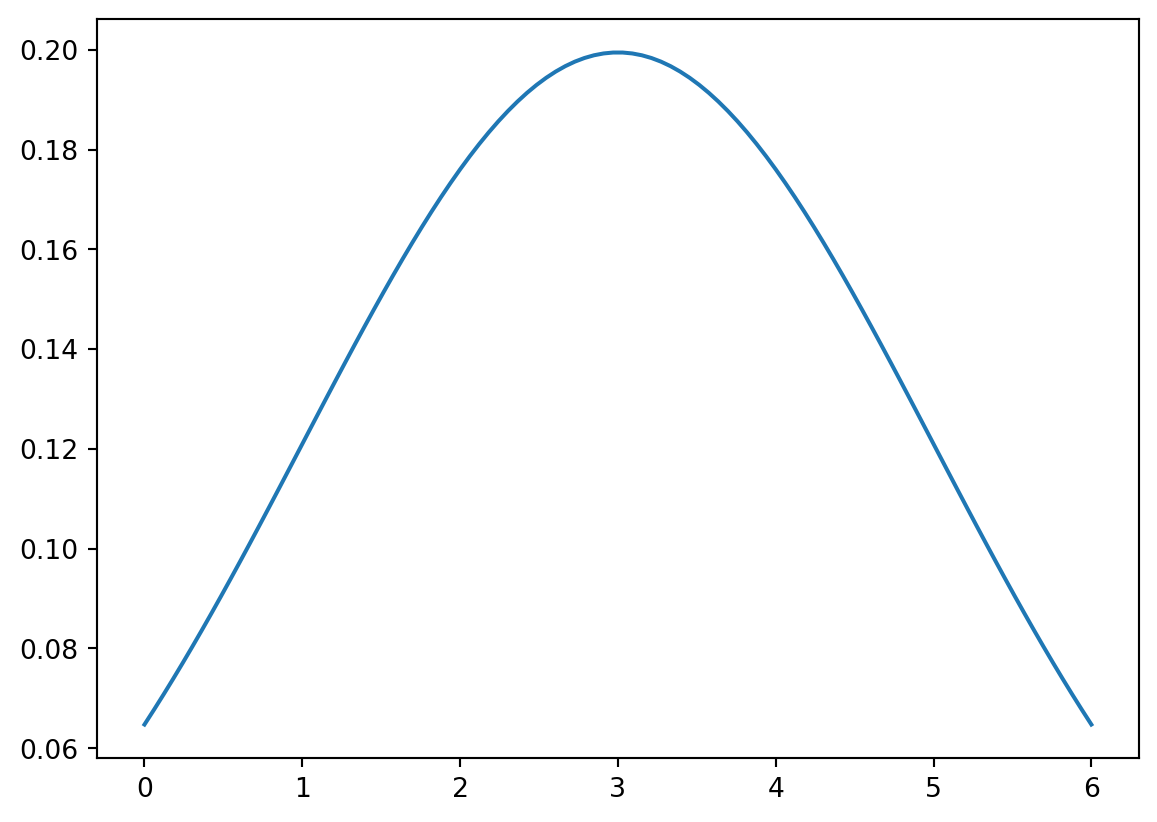
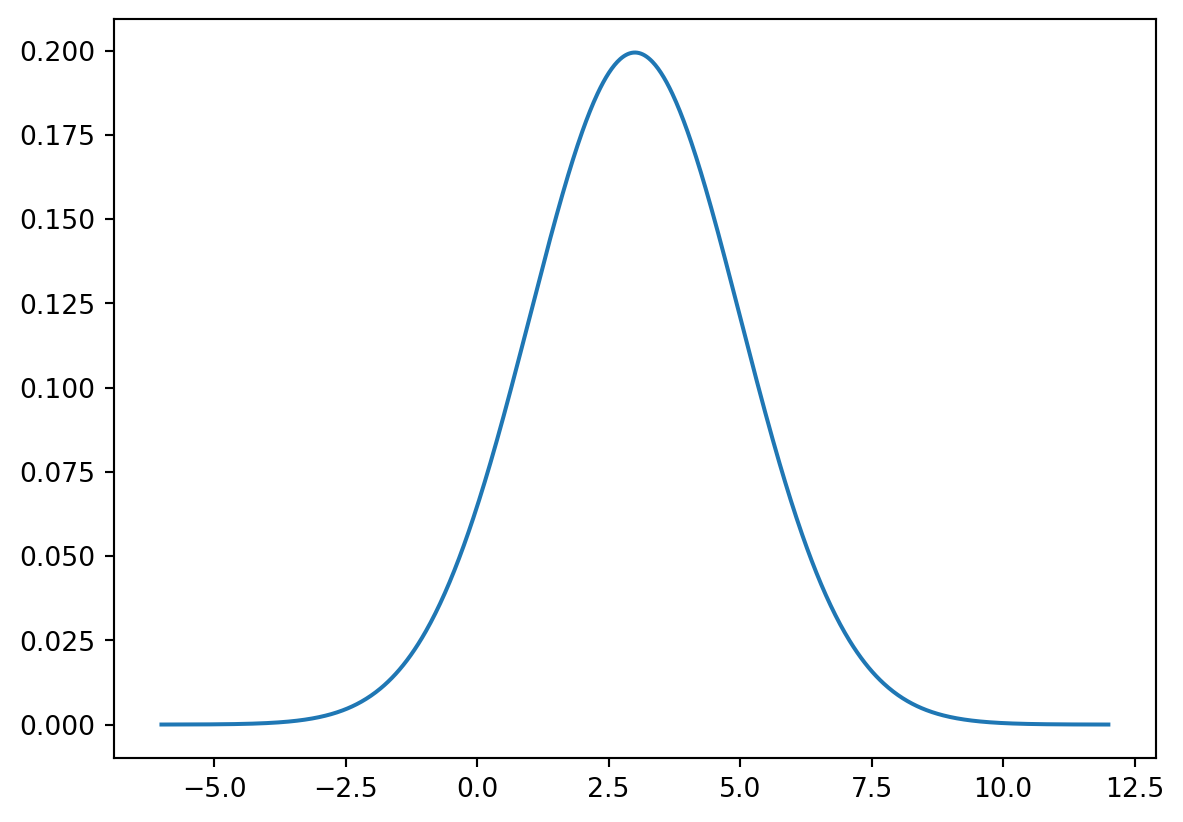
project!

diff --git a/docs/posts/hw3/index.html b/docs/posts/hw3/index.html
@@ -245,7 +245,7 @@ window.Quarto = {
 <p><span class="math display">\[
 f(x ; \mu, \sigma) = \frac{1}{\sigma \sqrt{2\pi}} e^{-\frac{1}{2} \left(\frac{x - \mu}{\sigma}\right)^2}
 \]</span></p>
-<div id="6ef21e72" class="cell" data-execution_count="1">
+<div id="22110413" class="cell" data-execution_count="1">
 <div class="sourceCode cell-code" id="cb1"><pre class="sourceCode python code-with-copy"><code class="sourceCode python"><span id="cb1-1"><a href="#cb1-1" aria-hidden="true" tabindex="-1"></a><span class="im">import</span> numpy <span class="im">as</span> np</span>
 <span id="cb1-2"><a href="#cb1-2" aria-hidden="true" tabindex="-1"></a><span class="im">import</span> matplotlib.pyplot <span class="im">as</span> plt</span>
 <span id="cb1-3"><a href="#cb1-3" aria-hidden="true" tabindex="-1"></a><span class="im">import</span> math</span>
@@ -253,7 +253,7 @@ f(x ; \mu, \sigma) = \frac{1}{\sigma \sqrt{2\pi}} e^{-\frac{1}{2} \left(\frac{x 
 <span id="cb1-5"><a href="#cb1-5" aria-hidden="true" tabindex="-1"></a><span class="kw">def</span> pdf_1(x, mu, std):</span>
 <span id="cb1-6"><a href="#cb1-6" aria-hidden="true" tabindex="-1"></a>    <span class="cf">return</span> (<span class="dv">1</span> <span class="op">/</span> (std <span class="op">*</span> math.sqrt(<span class="dv">2</span> <span class="op">*</span> math.pi))) <span class="op">*</span> math.exp(<span class="op">-</span><span class="fl">0.5</span> <span class="op">*</span> ((x <span class="op">-</span> mu) <span class="op">/</span> std) <span class="op">**</span> <span class="dv">2</span>)</span>
 <span id="cb1-7"><a href="#cb1-7" aria-hidden="true" tabindex="-1"></a></span>
-<span id="cb1-8"><a href="#cb1-8" aria-hidden="true" tabindex="-1"></a>x_values <span class="op">=</span> np.linspace(<span class="dv">0</span>, <span class="dv">6</span>, <span class="dv">100</span>)</span>
+<span id="cb1-8"><a href="#cb1-8" aria-hidden="true" tabindex="-1"></a>x_values <span class="op">=</span> np.linspace(<span class="op">-</span><span class="dv">6</span>, <span class="dv">12</span>, <span class="dv">1000</span>)</span>
 <span id="cb1-9"><a href="#cb1-9" aria-hidden="true" tabindex="-1"></a>pdf_values <span class="op">=</span> [pdf_1(x, <span class="dv">3</span>, <span class="dv">2</span>) <span class="cf">for</span> x <span class="kw">in</span> x_values]</span>
 <span id="cb1-10"><a href="#cb1-10" aria-hidden="true" tabindex="-1"></a></span>
 <span id="cb1-11"><a href="#cb1-11" aria-hidden="true" tabindex="-1"></a>plt.plot(x_values, pdf_values)</span>
@@ -262,7 +262,7 @@ f(x ; \mu, \sigma) = \frac{1}{\sigma \sqrt{2\pi}} e^{-\frac{1}{2} \left(\frac{x 
 <div class="cell-output cell-output-display">
 <div>
 <figure class="figure">
-<p><img src="index_files/figure-html/cell-2-output-1.png" width="579" height="411" class="figure-img"></p>
+<p><img src="index_files/figure-html/cell-2-output-1.png" width="592" height="411" class="figure-img"></p>
 </figure>
 </div>
 </div>
@@ -288,7 +288,7 @@ f(x ; \mu, \sigma) = \frac{1}{\sigma \sqrt{2\pi}} e^{-\frac{1}{2} \left(\frac{x 
 </section>
 <section id="px-3-or-x-7" class="level1">
 <h1>3) P(X &lt; 3 or X &gt; 7)</h1>
-<div id="22202fa8" class="cell" data-execution_count="2">
+<div id="b589bb68" class="cell" data-execution_count="2">
 <div class="sourceCode cell-code" id="cb3"><pre class="sourceCode python code-with-copy"><code class="sourceCode python"><span id="cb3-1"><a href="#cb3-1" aria-hidden="true" tabindex="-1"></a><span class="co"># 1) P(X &lt; 3)</span></span>
 <span id="cb3-2"><a href="#cb3-2" aria-hidden="true" tabindex="-1"></a><span class="im">from</span> scipy.stats <span class="im">import</span> norm</span>
 <span id="cb3-3"><a href="#cb3-3" aria-hidden="true" tabindex="-1"></a>norm.cdf(<span class="dv">3</span>, loc<span class="op">=</span><span class="dv">2</span>, scale<span class="op">=</span><span class="dv">3</span>)</span></code><button title="Copy to Clipboard" class="code-copy-button"><i class="bi"></i></button></pre></div>
@@ -296,14 +296,14 @@ f(x ; \mu, \sigma) = \frac{1}{\sigma \sqrt{2\pi}} e^{-\frac{1}{2} \left(\frac{x 
 <pre><code>np.float64(0.6305586598182363)</code></pre>
 </div>
 </div>
-<div id="c0276ffc" class="cell" data-execution_count="3">
+<div id="1cd2ae40" class="cell" data-execution_count="3">
 <div class="sourceCode cell-code" id="cb5"><pre class="sourceCode python code-with-copy"><code class="sourceCode python"><span id="cb5-1"><a href="#cb5-1" aria-hidden="true" tabindex="-1"></a><span class="co"># 2) P(2 &lt; X &lt; 5)</span></span>
 <span id="cb5-2"><a href="#cb5-2" aria-hidden="true" tabindex="-1"></a>norm.cdf(<span class="dv">5</span>, loc<span class="op">=</span><span class="dv">2</span>, scale<span class="op">=</span><span class="dv">3</span>) <span class="op">-</span> norm.cdf(<span class="dv">2</span>, loc<span class="op">=</span><span class="dv">2</span>, scale<span class="op">=</span><span class="dv">3</span>)</span></code><button title="Copy to Clipboard" class="code-copy-button"><i class="bi"></i></button></pre></div>
 <div class="cell-output cell-output-display" data-execution_count="3">
 <pre><code>np.float64(0.3413447460685429)</code></pre>
 </div>
 </div>
-<div id="78939009" class="cell" data-execution_count="4">
+<div id="bed7d58c" class="cell" data-execution_count="4">
 <div class="sourceCode cell-code" id="cb7"><pre class="sourceCode python code-with-copy"><code class="sourceCode python"><span id="cb7-1"><a href="#cb7-1" aria-hidden="true" tabindex="-1"></a><span class="co"># 3) P(X &lt; 3 or X &gt; 7)</span></span>
 <span id="cb7-2"><a href="#cb7-2" aria-hidden="true" tabindex="-1"></a><span class="dv">1</span> <span class="op">-</span> norm.cdf(<span class="dv">7</span>, loc<span class="op">=</span><span class="dv">2</span>, scale<span class="op">=</span><span class="dv">3</span>) <span class="op">+</span> norm.cdf(<span class="dv">3</span>, loc<span class="op">=</span><span class="dv">2</span>, scale<span class="op">=</span><span class="dv">3</span>) </span></code><button title="Copy to Clipboard" class="code-copy-button"><i class="bi"></i></button></pre></div>
 <div class="cell-output cell-output-display" data-execution_count="4">
@@ -319,7 +319,7 @@ f(x ; \mu, \sigma) = \frac{1}{\sigma \sqrt{2\pi}} e^{-\frac{1}{2} \left(\frac{x 
 </section>
 <section id="상위-5에-해당하는-학생의-점수는" class="level1">
 <h1>상위 5%에 해당하는 학생의 점수는?</h1>
-<div id="d171e590" class="cell" data-execution_count="5">
+<div id="3aeb6b7f" class="cell" data-execution_count="5">
 <div class="sourceCode cell-code" id="cb9"><pre class="sourceCode python code-with-copy"><code class="sourceCode python"><span id="cb9-1"><a href="#cb9-1" aria-hidden="true" tabindex="-1"></a><span class="im">import</span> scipy.stats <span class="im">as</span> stats</span>
 <span id="cb9-2"><a href="#cb9-2" aria-hidden="true" tabindex="-1"></a></span>
 <span id="cb9-3"><a href="#cb9-3" aria-hidden="true" tabindex="-1"></a>mu <span class="op">=</span> <span class="dv">30</span></span>

diff --git a/docs/blog.html b/docs/blog.html
@@ -202,7 +202,7 @@ window.Quarto = {
 
 <div class="quarto-listing quarto-listing-container-default" id="listing-listing">
 <div class="list quarto-listing-default">
-<div class="quarto-post image-right" data-index="0" data-categories="bigdata" data-listing-date-sort="1721833200000" data-listing-file-modified-sort="1721916057013" data-listing-date-modified-sort="NaN" data-listing-reading-time-sort="1" data-listing-word-count-sort="173">
+<div class="quarto-post image-right" data-index="0" data-categories="bigdata" data-listing-date-sort="1721833200000" data-listing-file-modified-sort="1721943374871" data-listing-date-modified-sort="NaN" data-listing-reading-time-sort="1" data-listing-word-count-sort="173">
 <div class="thumbnail">
 <p><a href="./posts/hw3/index.html" class="no-external"></a></p><a href="./posts/hw3/index.html" class="no-external">
 <p class="card-img-top"><img src="posts\hw3\index_files\figure-html\cell-2-output-1.png"  class="thumbnail-image card-img"/></p>
